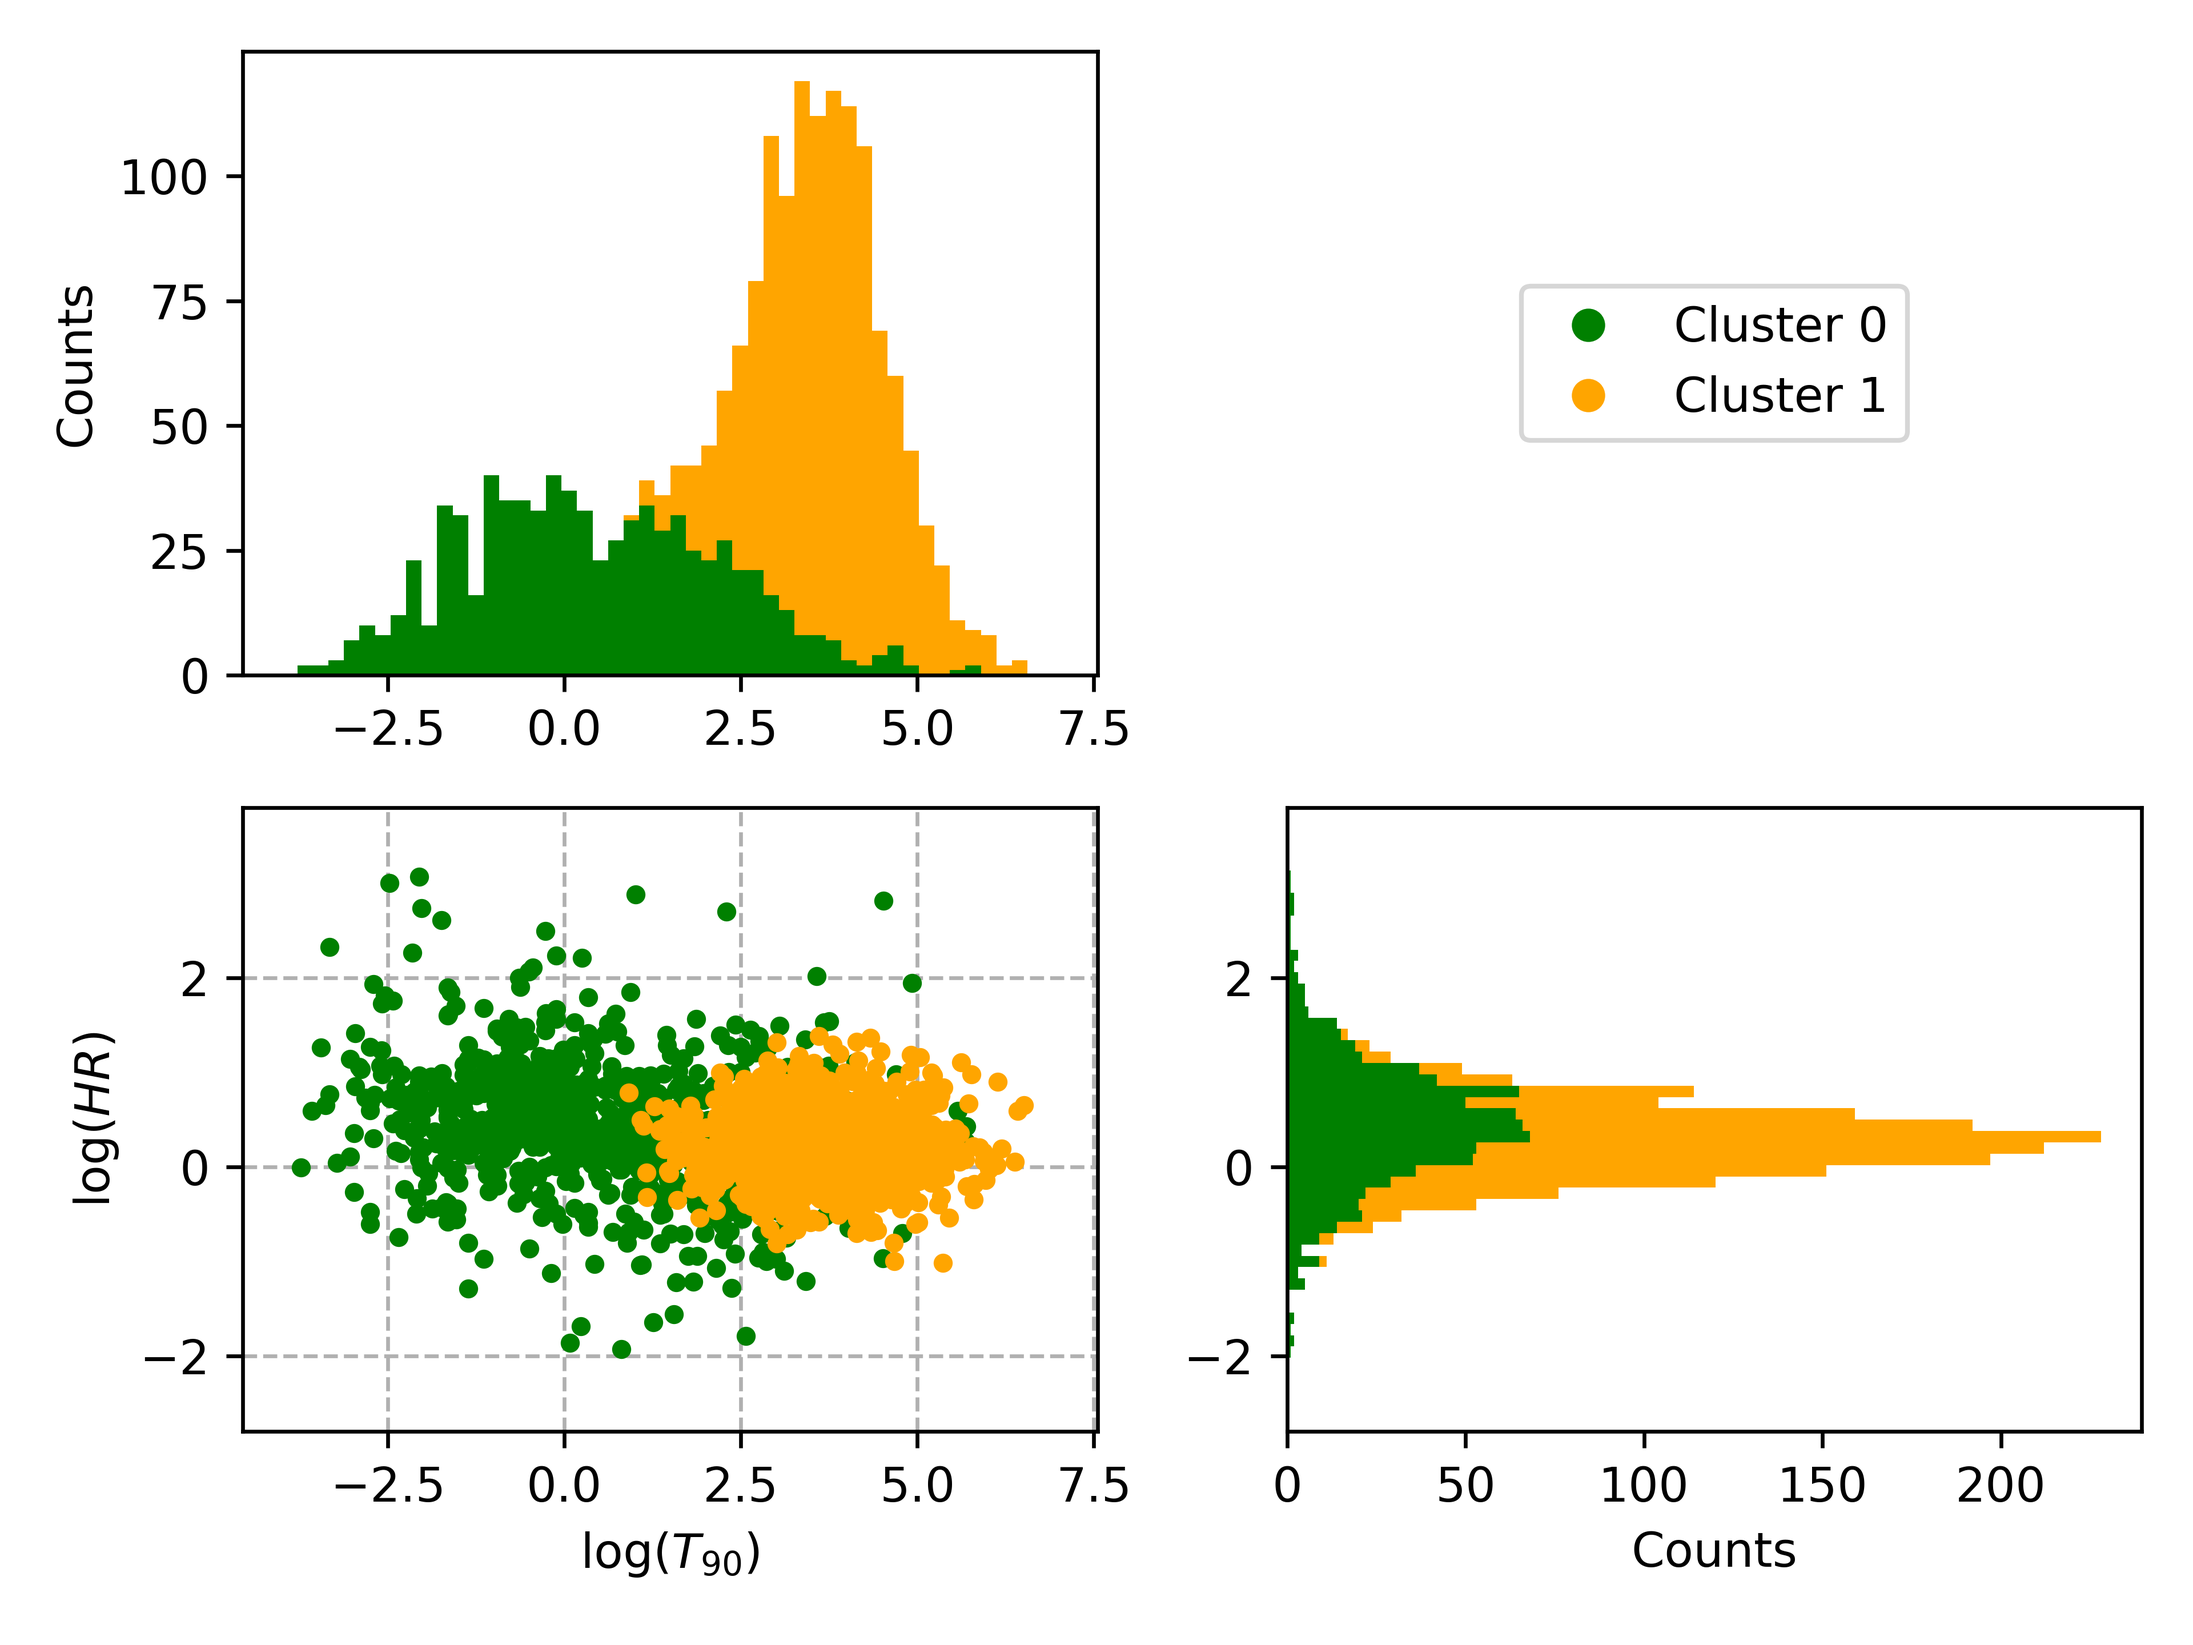
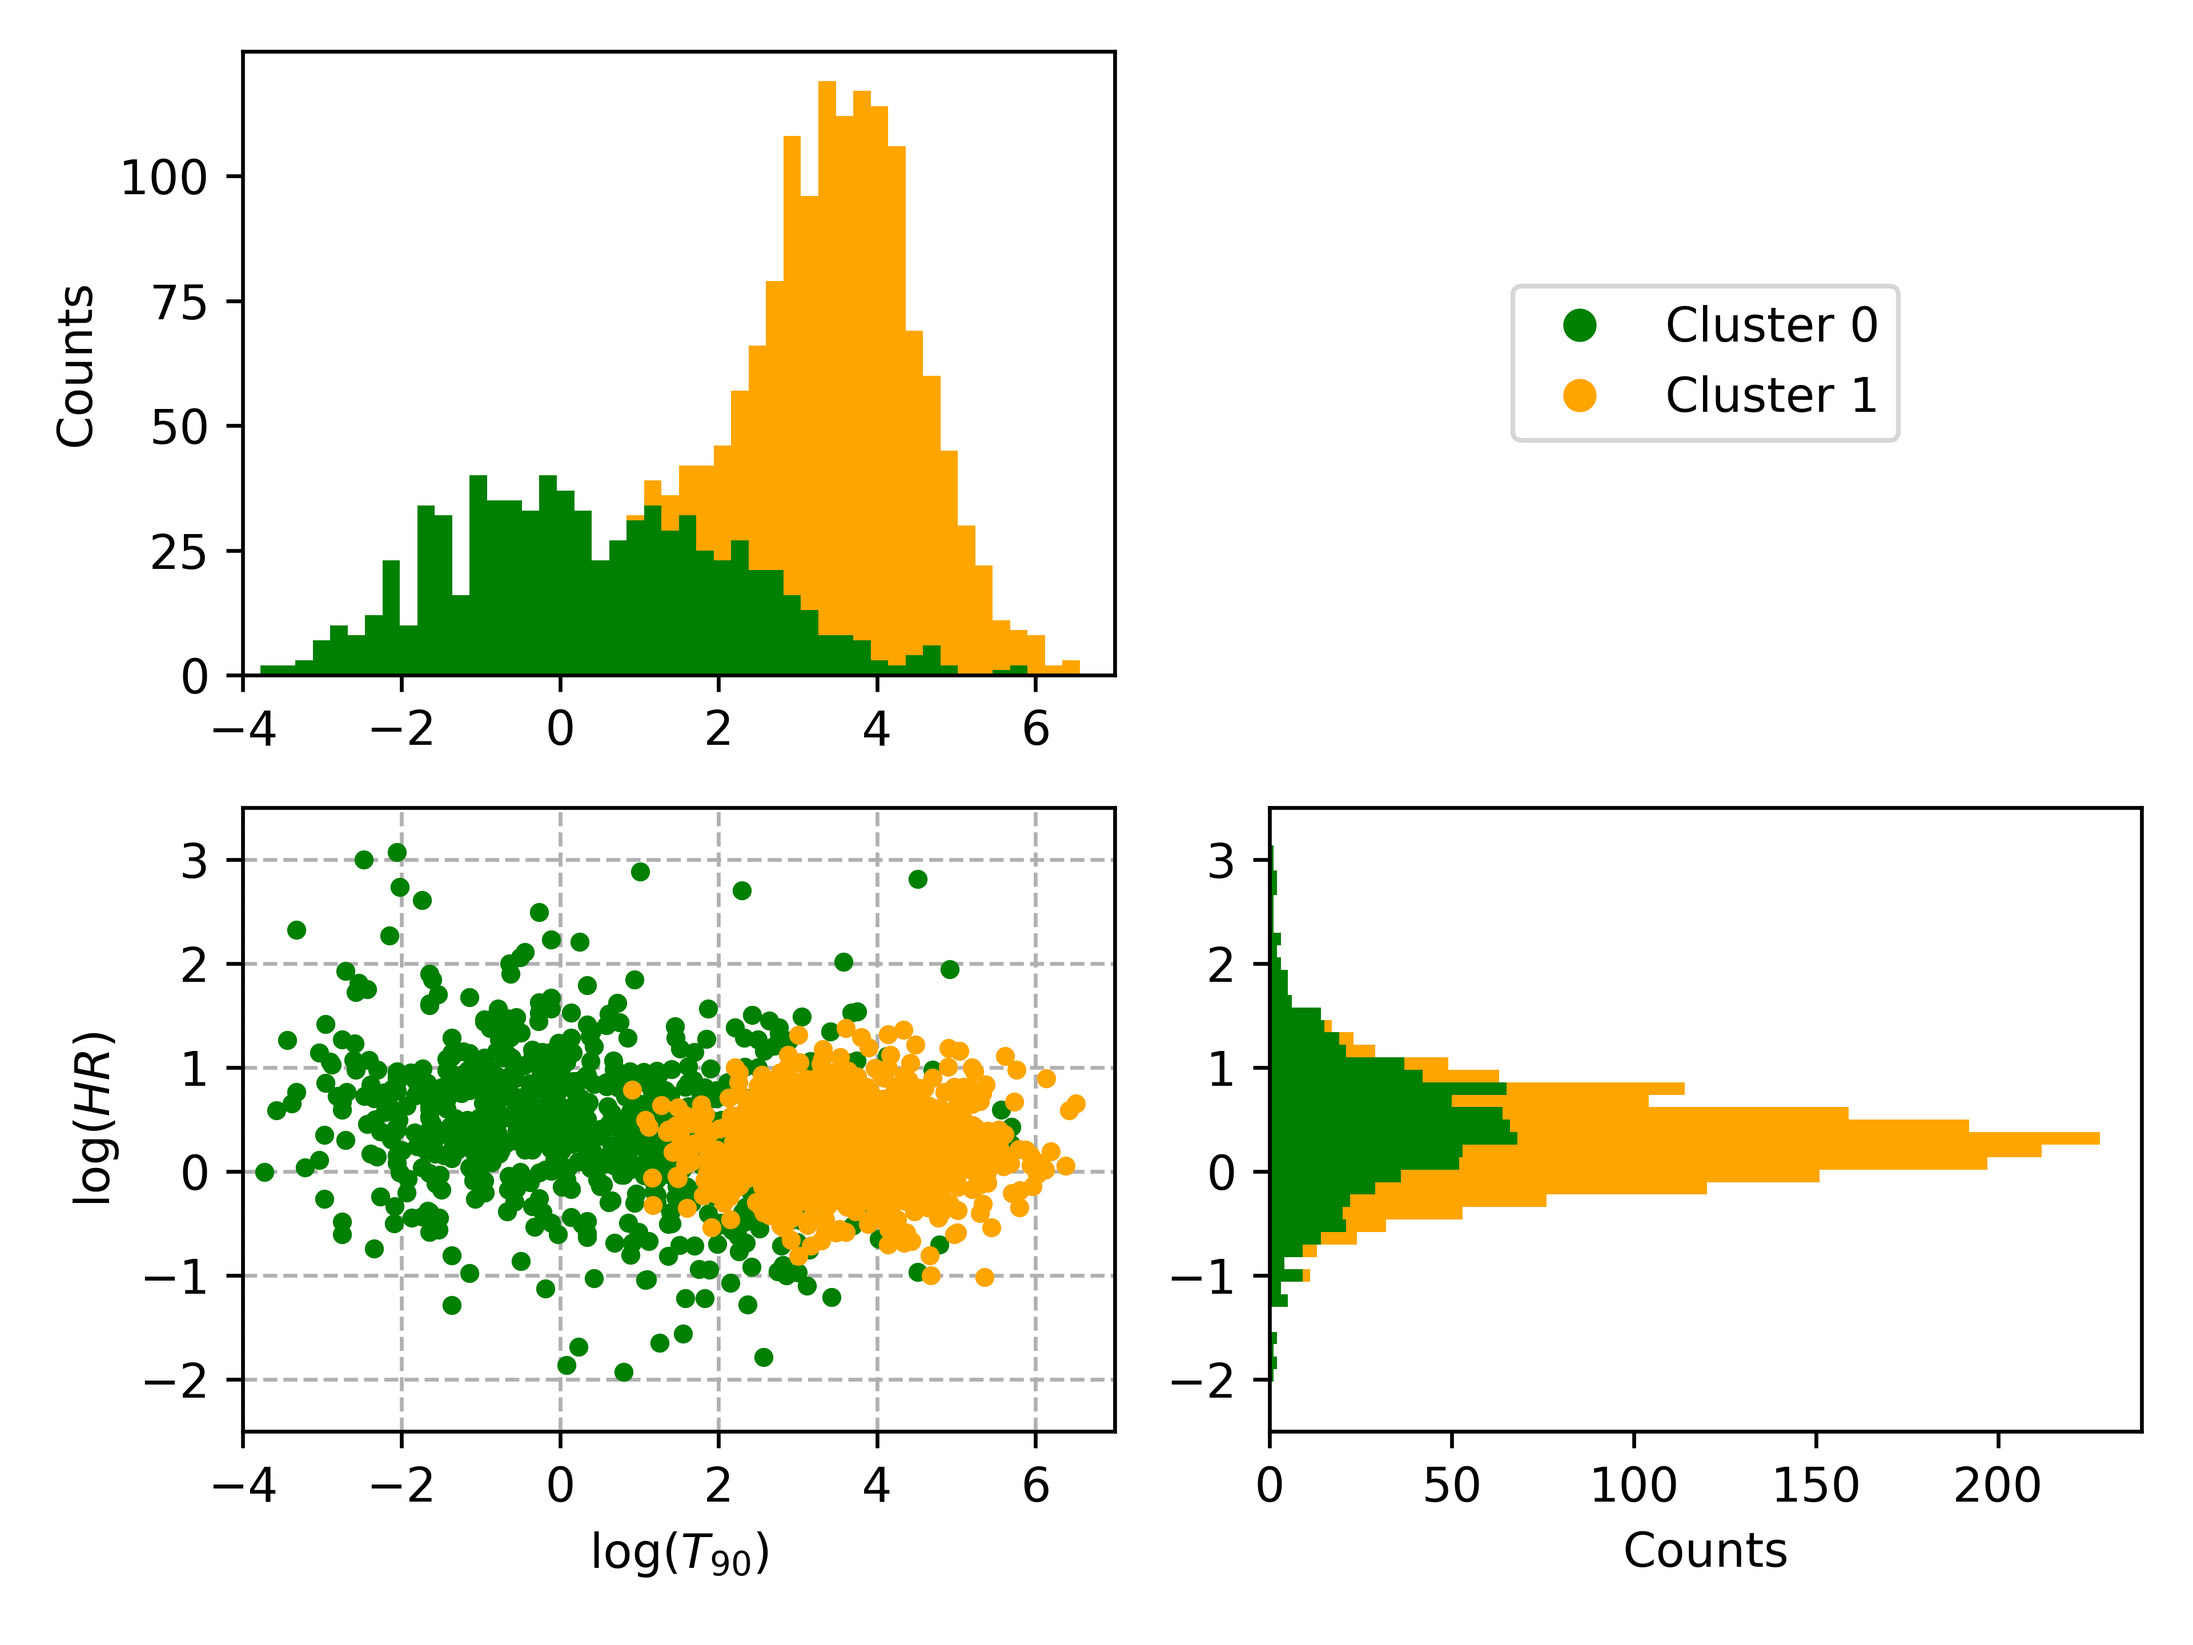
lunch 28/03: Gibbs new confidence levels

diff --git a/GRB_class_5.py b/GRB_class_5.py
@@ -187,11 +187,10 @@ if __name__ == "__main__":
     xx = np.linspace(-4,7,256)              # linear space on log_T
     yy = np.linspace(-2.5, 3.5, 256)        # linear space on log_HR
     
-    
     # try to initialise things
     # I have to define data so that data[ii] = [log_T[ii], log_HR[ii]] and see if it runs in 2D 
     data = np.array([log_T, log_HR]).T          #transpose to have format (N_point, N_dim = 2)
-    
+    """
     # 3 clusters    
     N_cluster = 3
     mu_0 = np.array([[-1,0],[1,0],[3.5,0]])
@@ -201,7 +200,7 @@ if __name__ == "__main__":
     N_cluster = 2
     mu_0 = np.array([[-1,0],[3.5,0]])
     cluster_color = ['g', 'orange']
-    """
+    
     sampler = state(N_cluster, data, mu_0=mu_0, alpha=1,rng=rng)
     _, _, mu_start, _ = sampler.posterior_parameters()
 
@@ -217,7 +216,7 @@ if __name__ == "__main__":
     plt.legend()
 
     # run n_step times
-    run = True
+    run = False
     burn_in = 50
     n_samples = 5000     # steps of the sampler
     n_step = burn_in+n_samples
@@ -251,7 +250,7 @@ if __name__ == "__main__":
             mu_trace[i+1] = mu_n
             log_p[burn_in+i] = sampler.state["log_joint_p"]
             # sample and save
-            for k in range(N_cluster):
+            for k in sampler.state["cluster_id_"]:
                 Sigma_j = invwishart(nu_n[k], Psi_n[k], seed=rng).rvs()                 # sample Sigma_j from the IW
                 mu_j = multivariate_normal(mu_n[k], Sigma_j/k_n[k], seed=rng).rvs()     # sample mu_j from multi_normal
                 mu_T[k,i] = mu_j[0]
@@ -436,16 +435,19 @@ if __name__ == "__main__":
             fig_hist_par_2 = fig4
 
     # confidence levels in the plane
-    from matplotlib.patches import Ellipse
+    from matplotlib.patches import Ellipse, PathPatch
+    from matplotlib.path import Path
+    import matplotlib.transforms as transforms
     scale = 2       # how many sigmas we want to represent? scale = 2 has ~68% of data 
 
     fig5 = plt.figure("Clusters in plane log_T, log_HR")
     ax = fig5.add_subplot(111)
     for k in range(N_cluster):
-        data_k = sampler.state["data_"][vec_z == k]
-        ax.scatter(data_k[:,0], data_k[:,1], marker = '.', color = cluster_color[k], label = "Cluster number "+str(k), zorder = 1, alpha=0.25)
+        #data_k = sampler.state["data_"][vec_z == k]
+        #ax.scatter(data_k[:,0], data_k[:,1], marker = '.', color = cluster_color[k], label = "Cluster number "+str(k), zorder = 1, alpha=0.25)
         for i in range(len(par_mu_T[0,:])):
             center = np.array([par_mu_T[k,i], par_mu_HR[k,i]])
+            ax.scatter(center[0], center[1], marker = '.', color = cluster_color[k], zorder = 1, alpha=0.05)
             Sigma = np.array([[par_sigma_T[k,i]**2, par_rho[k,i]*par_sigma_T[k,i]*par_sigma_HR[k,i]],
                               [par_rho[k,i]*par_sigma_T[k,i]*par_sigma_HR[k,i], par_sigma_HR[k,i]**2]])
             eigval, eigvec = np.linalg.eigh(Sigma)
@@ -454,15 +456,80 @@ if __name__ == "__main__":
             height = scale*2*np.sqrt(eigval[0])                               # minor axis
             # last one with label
             if i == len(par_mu_T[0,:])-1:
-                ellipse = Ellipse(xy=center, width=width, height=height, angle=angle, fill=False, color=cluster_color[k], alpha=0.5, label = "68% confidence area", zorder=2)
+                ellipse = Ellipse(xy=center, width=width, height=height, angle=angle, fill=False, color=cluster_color[k], alpha=0.05, label = "68% confidence area", zorder=2)
             else:
-                ellipse = Ellipse(xy=center, width=width, height=height, angle=angle, fill=False, color=cluster_color[k], alpha=0.5, zorder=2)
+                ellipse = Ellipse(xy=center, width=width, height=height, angle=angle, fill=False, color=cluster_color[k], alpha=0.05, zorder=2)
             ax.add_patch(ellipse)
     ax.set_xlabel("$\\log(T_{90})$")
+    ax.set_xlim(-4,7)
     ax.set_ylabel("$\\log(HR)$")
+    ax.set_ylim(-2.5,3.5)
     ax.grid(linestyle = 'dashed')
     ax.set_axisbelow(True)
     plt.legend()        
+
+    # function to draw confidence leves around ellipses
+    def draw_band(ax, center, width_out, height_out, width_in, height_in, angle, color, alpha=0.4, zorder=2):
+        angle_rad = np.radians(angle)
+        cos_a, sin_a = np.cos(angle_rad), np.sin(angle_rad)
+    
+        xx, yy = np.meshgrid(np.linspace(center[0]-width_out, center[0]+width_out, 1600),
+                         np.linspace(center[1]-height_out, center[1]+height_out, 1600))
+    
+        dx, dy = xx - center[0], yy - center[1]
+        x_rot =  cos_a * dx + sin_a * dy
+        y_rot = -sin_a * dx + cos_a * dy
+    
+        inside_out = (x_rot/(width_out/2))**2  + (y_rot/(height_out/2))**2 <= 1
+        inside_in  = (x_rot/(width_in/2))**2  + (y_rot/(height_in/2))**2  <= 1
+    
+        band = (inside_out & ~inside_in).astype(float)
+        band[band == 0] = np.nan  # transparent outside
+    
+        ax.contourf(xx, yy, band, levels=[0.5, 1.5], colors=[color], alpha=alpha, zorder=zorder)
+
+    conf_color = ['blue', 'red']
+    fig5b = plt.figure("Clusters in plane log_T, log_HR test")
+    ax = fig5b.add_subplot(111)
+    for k in range(N_cluster):
+        data_k = sampler.state["data_"][vec_z == k]
+        ax.scatter(data_k[:,0], data_k[:,1], marker = '.', color = cluster_color[k], zorder = 1, alpha=0.25)
+
+        center = np.array([par_mu_T[k,:], par_mu_HR[k,:]]).T
+        c_m = np.percentile(center, 50, axis=0)
+        ax.scatter(c_m[0], c_m[1], marker = '.', color = conf_color[k], zorder = 2, alpha=1)
+        eig = np.zeros(center.shape)
+        angle = np.zeros(center.shape[0])
+        for i in range(len(par_mu_T[0,:])):
+            Sigma = np.array([[par_sigma_T[k,i]**2, par_rho[k,i]*par_sigma_T[k,i]*par_sigma_HR[k,i]],
+                              [par_rho[k,i]*par_sigma_T[k,i]*par_sigma_HR[k,i], par_sigma_HR[k,i]**2]])
+            eig[i], eigvec = np.linalg.eigh(Sigma)
+            angle[i] = np.arctan2(eigvec[1,1], eigvec[0,1]) * 180/np.pi    # rotation angle
+        
+        # find median values
+        eig_p = np.percentile(eig, [5,50,95], axis=0)
+        angle_m = np.degrees(np.arctan2(np.mean(np.sin(np.radians(angle))), np.mean(np.cos(np.radians(angle))))) 
+        width = scale*2*np.sqrt(eig_p[:,-1])                               # major axis
+        height = scale*2*np.sqrt(eig_p[:,0])                               # minor axis
+        # 5% ellipse
+        ellipse = Ellipse(xy=c_m, width=width[0], height=height[0], angle=angle_m, fill=False, color = conf_color[k], linestyle='dashed')
+        ax.add_patch(ellipse)
+        # 95% ellipse
+        ellipse = Ellipse(xy=c_m,  width=width[2], height=height[2], angle=angle_m, fill=False, color = conf_color[k], linestyle='dashed')
+        ax.add_patch(ellipse)
+        
+        draw_band(ax, c_m, width[2], height[2], width[0], height[0], angle_m, conf_color[k], alpha=0.5, zorder=2)
+
+        # median ellipse
+        ellipse = Ellipse(xy=c_m, width=width[1], height=height[1], angle=angle_m, fill=False, color=conf_color[k], alpha=1, zorder=3)
+        ax.add_patch(ellipse) 
+    ax.set_xlabel("$\\log(T_{90})$")
+    ax.set_xlim(-4,7)
+    ax.set_ylabel("$\\log(HR)$")
+    ax.set_ylim(-2.5,3.5)
+    ax.grid(linestyle = 'dashed')
+    ax.set_axisbelow(True)
+    
 
     # plane assignments and marginals
     # define the bins
@@ -491,7 +558,9 @@ if __name__ == "__main__":
         axH.barh(center_HR, count, width_HR, color = cluster_color[k], label = "Cluster number "+str(k), left=bottom_HR)
         bottom_HR += count
     ax.set_xlabel("$\\log(T_{90})$")
+    ax.set_xlim(-4,7)
     ax.set_ylabel("$\\log(HR)$")
+    ax.set_ylim(-2.5,3.5)
     ax.grid(linestyle = 'dashed')
     ax.set_axisbelow(True)
     axT.set_ylabel("Counts")
@@ -508,7 +577,8 @@ if __name__ == "__main__":
 
     # end of the point: show, save or close all the open figures
 
-    #plt.show()
+    plt.show()
+    exit()
     
     path = main_dir+"\\Results\\5\\"+str(N_cluster)+"_step_"+str(n_step)
     # Check if the results dir exists
@@ -525,7 +595,7 @@ if __name__ == "__main__":
     if N_cluster > 2:
         fig_hist_par_2.savefig(path+"\\Parameters_hist_2.png", dpi = 600)
 
-    fig5.savefig(path+"\\Plane_confidence.png", dpi = 600)
+    fig5b.savefig(path+"\\Plane_confidence.png", dpi = 600)
     fig6.savefig(path+"\\Plane_and_marginal.png", dpi = 600)
 
     header = "par_val d_par_plus d_par_minus for [mu_T, sigma_T, mu_HR, sigma_HR, rho]"
